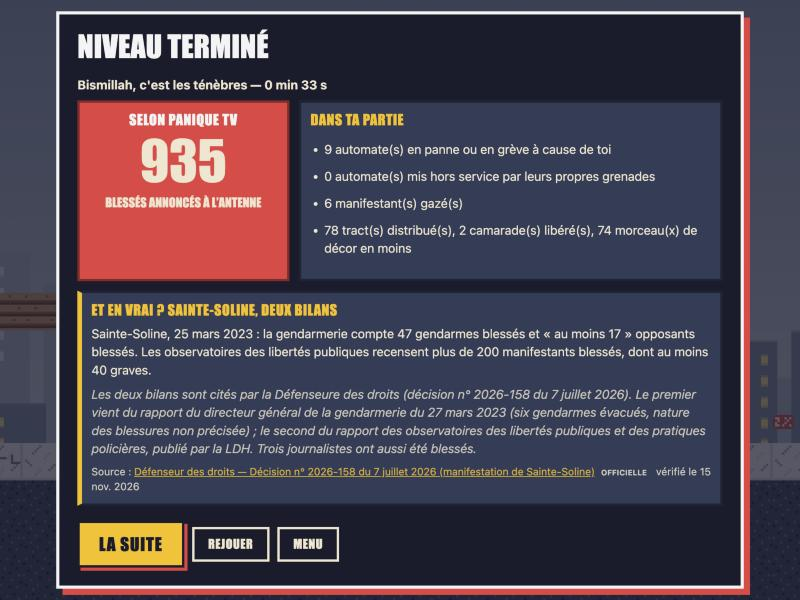
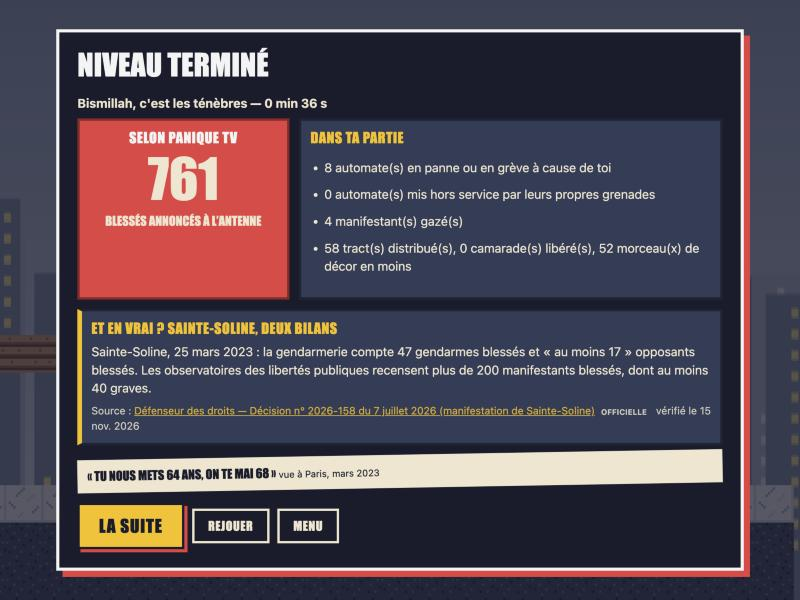
fix: commandes tactiles en portrait, Bibliothèque, lecteur de musique discret, crédits
- Tactile : boutons qui ne se chevauchent plus en portrait, action remontée au-dessus des
  boutons en paysage, capture de pointeur tolérante aux échecs.
- La Bibliothèque affiche de nouveau ses listes ; « À propos » crédite les enregistrements,
  les voix et les pistes de Radio Manif.
- Le lecteur SoundCloud n'apparaît que sur le menu principal ; un niveau peut désigner sa
  piste (« musique: … »).
- Guide des niveaux : section facultative « --- murs ». Captures refaites sur les nouveaux
  niveaux.

diff --git a/style.css b/style.css
@@ -271,7 +271,7 @@ body.sobre #hud-panique i { animation: none; }
 #bandeau[hidden], #hud[hidden], #hud-boss[hidden] { display: none; }
 #bandeau.entre { animation: bandeau-entre .3s cubic-bezier(.2, 1.3, .4, 1); }
 @keyframes bandeau-entre { from { transform: translateY(100%); } }
-body.tactile #bandeau { bottom: auto; top: 3.4em; }
+@media (orientation: landscape) { body.tactile #bandeau { bottom: auto; top: 3.4em; } }
 
 #toasts { position: absolute; left: 10px; top: 4.6em; z-index: 6; display: grid; gap: 6px; pointer-events: none; }
 #toasts p { margin: 0; padding: .45em .7em; background: var(--nuit); border-left: 5px solid var(--or); font: 700 .8rem/1.2 var(--texte); animation: bandeau-entre .25s; }
@@ -291,8 +291,15 @@ body.tactile:not(.en-jeu) #tactile { display: none; }
   body.tactile #scene { flex: 0 0 auto; height: min(62vw, 46vh); }
   body.tactile #tactile { position: relative; flex: 1; inset: auto; background: var(--nuit); border-top: 4px solid var(--rouge); }
   body.tactile #tactile .groupe { bottom: 50%; transform: translateY(50%); }
-  #tactile b { width: 84px; height: 84px; font-size: 1rem; background: var(--encre); }
-  #tactile b.petit { width: 64px; height: 64px; }
+  #tactile .groupe { gap: 10px; }
+  #tactile .gauche { left: calc(12px + env(safe-area-inset-left)); }
+  #tactile .droite { right: calc(12px + env(safe-area-inset-right)); }
+  #tactile b { width: min(21vw, 84px); height: min(21vw, 84px); font-size: 1rem; background: var(--encre); }
+  #tactile b.petit { position: absolute; right: min(11vw, 44px); bottom: calc(min(21vw, 84px) + 14px); width: min(17vw, 66px); height: min(17vw, 66px); }
+  #hud { font-size: .68rem; }
+  #hud .bloc { top: 5px; gap: .2em .6em; }
+  #hud .gauche { left: 6px; }
+  #hud .droite { right: 6px; }
 }
 
 /* ------------------------------------------------------------------ écrans */
@@ -376,7 +383,8 @@ body.tactile:not(.en-jeu) #tactile { display: none; }
 /* Radio Manif */
 #radio { position: fixed; right: max(10px, env(safe-area-inset-right)); bottom: max(10px, env(safe-area-inset-bottom)); z-index: 30; width: min(320px, calc(100vw - 20px)); background: var(--nuit); border: 3px solid var(--blanc); box-shadow: 4px 4px 0 var(--rouge); padding: 6px 8px; font-size: .72rem; }
 #radio[hidden] { display: none; }
-#radio.cache { left: -9999px; right: auto; }
+/* Le lecteur n'est visible que sur le menu principal ; ailleurs il continue de jouer, hors de l'écran. */
+#radio.cache, body:not([data-ecran='menu']) #radio { left: -9999px; right: auto; }
 #radio strong { font: 900 .85rem/1 var(--titre); text-transform: uppercase; letter-spacing: .05em; color: var(--or); }
 #radio iframe { display: block; width: 100%; height: 76px; border: 0; margin: 4px 0; }
 #radio p { margin: 0; overflow: hidden; text-overflow: ellipsis; white-space: nowrap; }

diff --git a/src/client/main.js b/src/client/main.js
@@ -36,7 +36,7 @@ function applyOptions() {
   audio.enabled = save.options.son;
   renderer.reduced = save.options.sobre;
   radio.setEnabled(save.options.musique);
-  if (save.options.musique) radio.play(mode === 'playing' && current ? current.id : 'menu');
+  if (save.options.musique) radio.play(mode === 'playing' && current ? current.level.musique || current.id : 'menu');
 }
 
 const screens = new Screens(screenRoot, {
@@ -94,12 +94,13 @@ function start(id, level = null) {
   setMode('paused');
   screens.intro(current.level, () => {
     setMode('playing');
-    radio.play(current.id);
+    radio.play(current.level.musique || current.id);
   });
 }
 
 function openAtelier() {
   setMode('menu');
+  document.body.dataset.ecran = 'atelier';
   showAtelier(screenRoot, { bundle, save, test: (level) => start(null, level), back: () => toMenu() });
 }
 
@@ -199,7 +200,13 @@ input.onPause = togglePause;
 input.onAny = () => audio.unlock();
 document.getElementById('pause').onclick = togglePause;
 addEventListener('pointerdown', () => audio.unlock(), true);
-addEventListener('resize', () => renderer.resize());
+function layout() {
+  renderer.resize();
+  // Au pouce et en paysage, les boutons couvrent le bas de l'écran : on remonte l'action.
+  const thumbs = document.body.classList.contains('tactile') && innerWidth > innerHeight;
+  renderer.anchor = thumbs ? 0.64 : 0.8;
+}
+addEventListener('resize', layout);
 document.addEventListener('visibilitychange', () => {
   last = performance.now();
   acc = 0;
@@ -208,7 +215,7 @@ document.addEventListener('visibilitychange', () => {
 if (matchMedia('(pointer: coarse)').matches) document.body.classList.add('tactile');
 addEventListener('touchstart', () => {
   document.body.classList.add('tactile');
-  renderer.resize();
+  layout();
 }, { once: true, passive: true });
 
 // Crochet de débogage (`?debug`) : piloter et inspecter la partie sans jouer en temps réel.
@@ -216,7 +223,7 @@ if (new URLSearchParams(location.search).has('debug')) {
   window.__ugf = {
     get game() { return game; },
     get mode() { return mode; },
-    bundle, start, toMenu, setMode, screens,
+    bundle, start, toMenu, setMode, screens, input, radio, audio,
     /** Redessine tout de suite (utile quand l'onglet est en arrière-plan). */
     draw(snap = false) {
       if (snap) renderer.snap(game);
@@ -235,7 +242,7 @@ if (new URLSearchParams(location.search).has('debug')) {
   };
 }
 
-renderer.resize();
+layout();
 applyOptions();
 registerServiceWorker((apply) => {
   screens.update = apply; // une nouvelle version attend : le menu la propose, jamais en pleine partie

diff --git a/src/client/ui.js b/src/client/ui.js
@@ -27,6 +27,7 @@ export class Screens {
 
   show(className, ...children) {
     this.root.replaceChildren(h('section', { className: `panneau ${className}` }, ...children));
+    document.body.dataset.ecran = className.split(' ')[0]; // la feuille de style sait quel écran est ouvert
     this.root.hidden = false;
     this.open = true;
     this.root.querySelector('button, a')?.focus({ preventScroll: true });
@@ -34,6 +35,7 @@ export class Screens {
 
   close() {
     this.root.replaceChildren();
+    delete document.body.dataset.ecran;
     this.root.hidden = true;
     this.open = false;
   }
@@ -176,8 +178,12 @@ export class Screens {
         link(`${REPO}/blob/main/CHARTE.md`, 'La charte'), ' · ', h('a', { href: 'galerie.html' }, 'La Galerie')),
       h('h3', {}, 'Références'),
       h('ul', {}, REFERENCES.map((r) => h('li', {}, link(r.url, r.titre), ` — ${r.note}`))),
-      h('h3', {}, 'Licences'),
-      h('p', {}, 'Code : MIT. Contenus (dessins, textes, niveaux, sons) : CC BY-SA 4.0. Bruitages synthétisés avec ZzFX de Frank Force (MIT).'),
+      h('h3', {}, 'Licences et crédits'),
+      h('p', {}, 'Code : MIT. Contenus : CC BY-SA 4.0. Bruitages synthétisés avec ZzFX de Frank Force (MIT). ',
+        'Voix off générées avec Piper, voix fr_FR-siwis-medium (corpus SIWIS).'),
+      h('ul', {}, Object.values(this.bundle.sons).filter((s) => s.fichier).map((s) =>
+        h('li', {}, link(s.source, s.nom), ` — ${s.auteur}, ${s.licence}`))),
+      h('p', {}, h('b', {}, 'Radio Manif : '), Object.values(this.bundle.musiques).map((m, i) => [i ? ' · ' : '', link(m.url, `${m.titre} (${m.artiste})`)])),
       h('div', { className: 'pied' }, this.back()));
   }
 

diff --git a/src/client/render.js b/src/client/render.js
@@ -31,6 +31,7 @@ export class Renderer {
     this.floaters = [];
     this.shake = 0;
     this.reduced = false;
+    this.anchor = 0.8; // hauteur des pieds du héros à l'écran (0 = haut, 1 = bas)
     this.demo = false; // démo du menu : pas de panneaux par-dessus le titre
     this.clock = 0;
   }
@@ -70,7 +71,7 @@ export class Renderer {
     const maxX = Math.max(0, world.w * TILE - this.viewW);
     const maxY = world.h * TILE - this.viewH;
     const x = hero.x + hero.w / 2 - this.viewW / 2 + hero.facing * 28;
-    const y = hero.y + hero.h - this.viewH * 0.8; // les pieds du héros aux quatre cinquièmes de l'écran
+    const y = hero.y + hero.h - this.viewH * this.anchor;
     return { x: Math.min(maxX, Math.max(0, x)), y: maxY < 0 ? maxY : Math.min(maxY, Math.max(0, y)) };
   }
 

diff --git a/src/client/music.js b/src/client/music.js
@@ -21,6 +21,8 @@ export class Radio {
 
   /** Les pistes prévues pour un endroit : un niveau précis, « menu », « jeu », ou « partout ». */
   pick(slot) {
+    const named = this.tracks.find((t) => t.id === slot); // un niveau peut désigner sa piste : « musique: … »
+    if (named) return named;
     const exact = this.tracks.filter((t) => t.ou === slot);
     const kind = slot === 'menu' ? [] : this.tracks.filter((t) => t.ou === 'jeu');
     const pool = exact.length ? exact : kind.length ? kind : this.tracks.filter((t) => t.ou === 'partout');

diff --git a/src/client/input.js b/src/client/input.js
@@ -73,7 +73,11 @@ export class Input {
       this.refreshTouch();
     };
     pad.addEventListener('pointerdown', (e) => {
-      pad.setPointerCapture?.(e.pointerId);
+      try {
+        pad.setPointerCapture(e.pointerId); // le doigt reste suivi même s'il sort de la zone
+      } catch {
+        // pointeur déjà relâché ou navigateur sans capture : on suit quand même
+      }
       track(e);
     });
     pad.addEventListener('pointermove', (e) => this.pointers.has(e.pointerId) && track(e));

diff --git a/src/client/dom.js b/src/client/dom.js
@@ -3,7 +3,7 @@
 /** Crée un élément : h('button', { onclick }, 'Texte', autreElement…) */
 export function h(tag, props = {}, ...children) {
   const node = Object.assign(document.createElement(tag), props);
-  node.append(...children.flat().filter((c) => c !== null && c !== undefined && c !== false && c !== ''));
+  node.append(...children.flat(Infinity).filter((c) => c !== null && c !== undefined && c !== false && c !== ''));
   return node;
 }
 

diff --git a/docs/ajouter-un-niveau.md b/docs/ajouter-un-niveau.md
@@ -108,3 +108,15 @@ Ennemis : `bouclier`, `editorialiste`, `drone`, `faux-jeune`. Décors : `vache`,
 - Écartez les tonneaux de deux cases : assez près pour la réaction en chaîne, assez loin pour qu'on la voie.
 - Trois à six minutes suffisent : un gag, un sauvetage, un passage à casser, la sortie.
 - Un panneau, c'est un conseil ou une blague. Pas un roman.
+
+## Les murs du fond (facultatif)
+
+Pour qu'un bâtiment ait un intérieur, ajoutez après la carte une section `--- murs`, de la même taille : les tuiles qu'on y dessine s'affichent assombries, derrière l'action, sans collision. Les niveaux de la campagne s'en servent pour la grange, le métro ou la Citadelle.
+
+```text
+--- murs
+........................................
+.........................BBB............
+.........................BBB............
+```
+(complétez avec des lignes de points jusqu'à la hauteur de la carte)

diff --git a/README.md b/README.md
@@ -7,7 +7,8 @@ Un run-and-gun en pixel art où vous incarnez l'ultragauche telle que les platea
 | | |
 |---|---|
 | ![Écran titre](docs/captures/titre.jpg) | ![Carton de héros](docs/captures/carton-heros.jpg) |
-| ![La manif passe par le métro](docs/captures/niveau-2-metro.jpg) | ![Zuc-Man face à l'Arnault-Armure](docs/captures/boss.jpg) |
+| ![La grange de Millevaches](docs/captures/niveau-1-grange.jpg) | ![La manif traverse l'immeuble](docs/captures/niveau-2-immeuble.jpg) |
+| ![Zuc-Man face à l'Arnault-Armure](docs/captures/boss.jpg) | ![L'Atelier : un niveau est un texte](docs/captures/atelier.jpg) |
 
 ![Une fortune à l'échelle, puis ce que pèsent 2 %](docs/captures/taxation-2-pour-cent.jpg)
 
